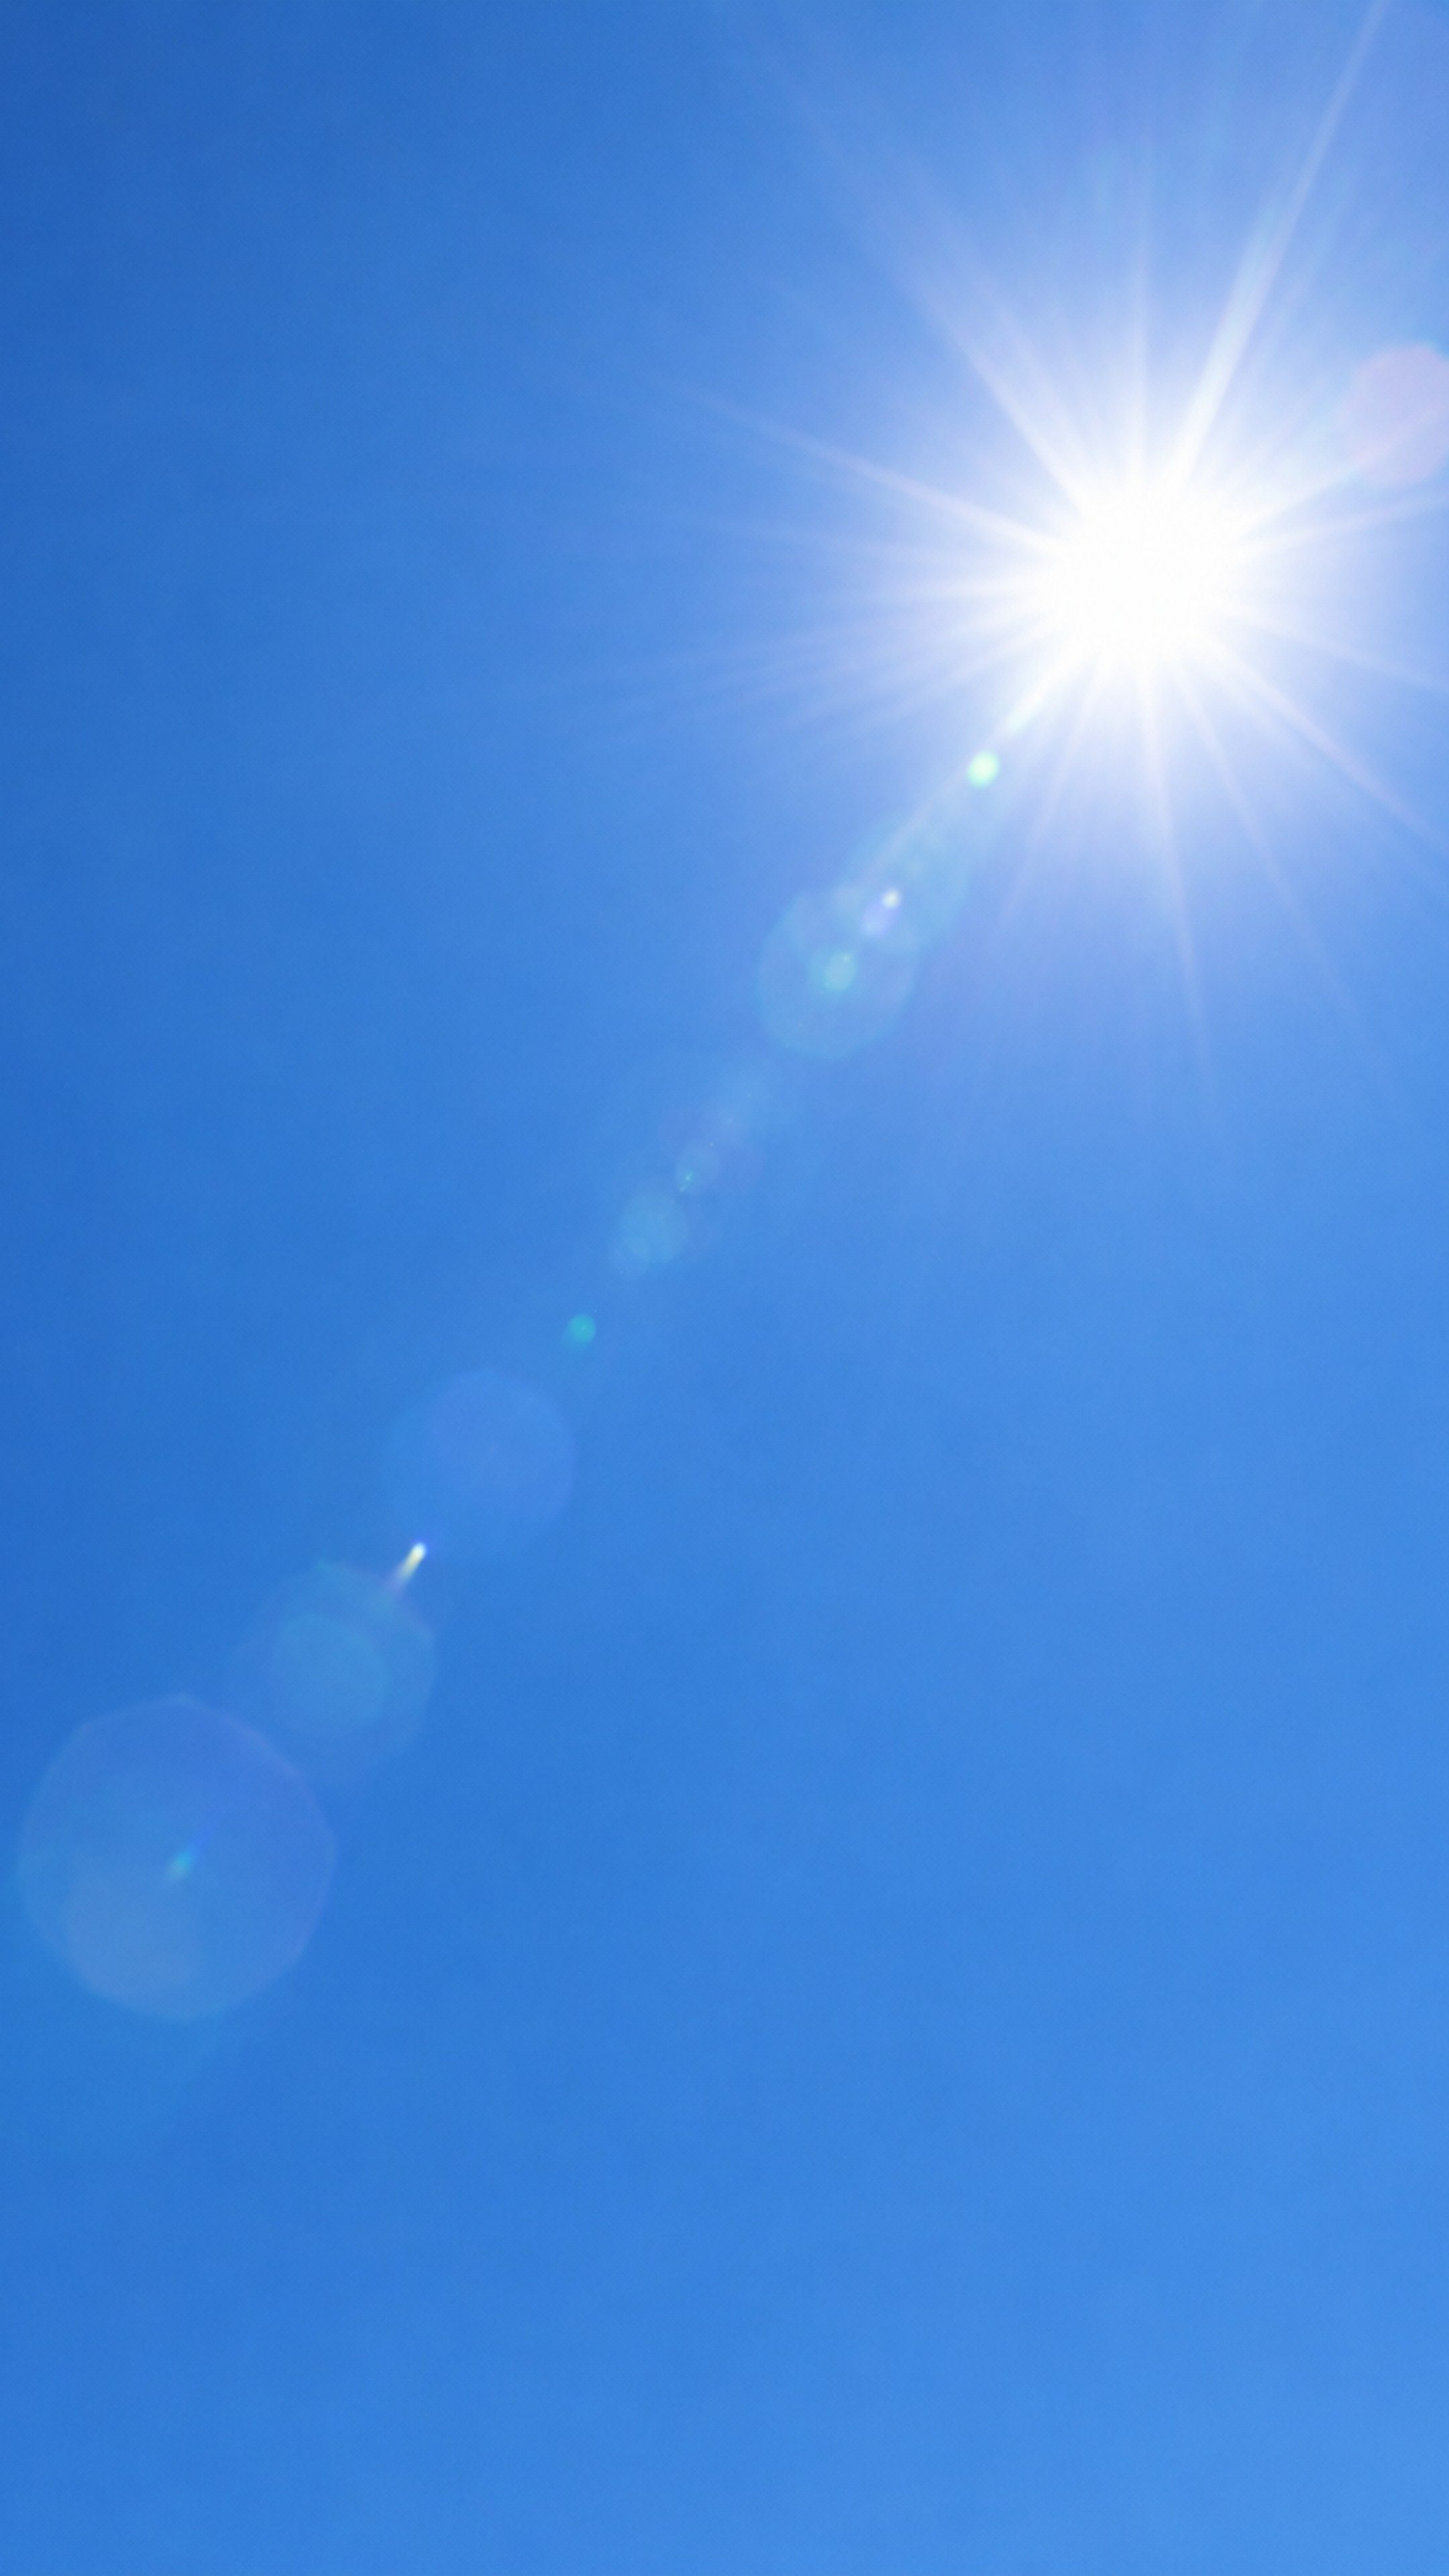
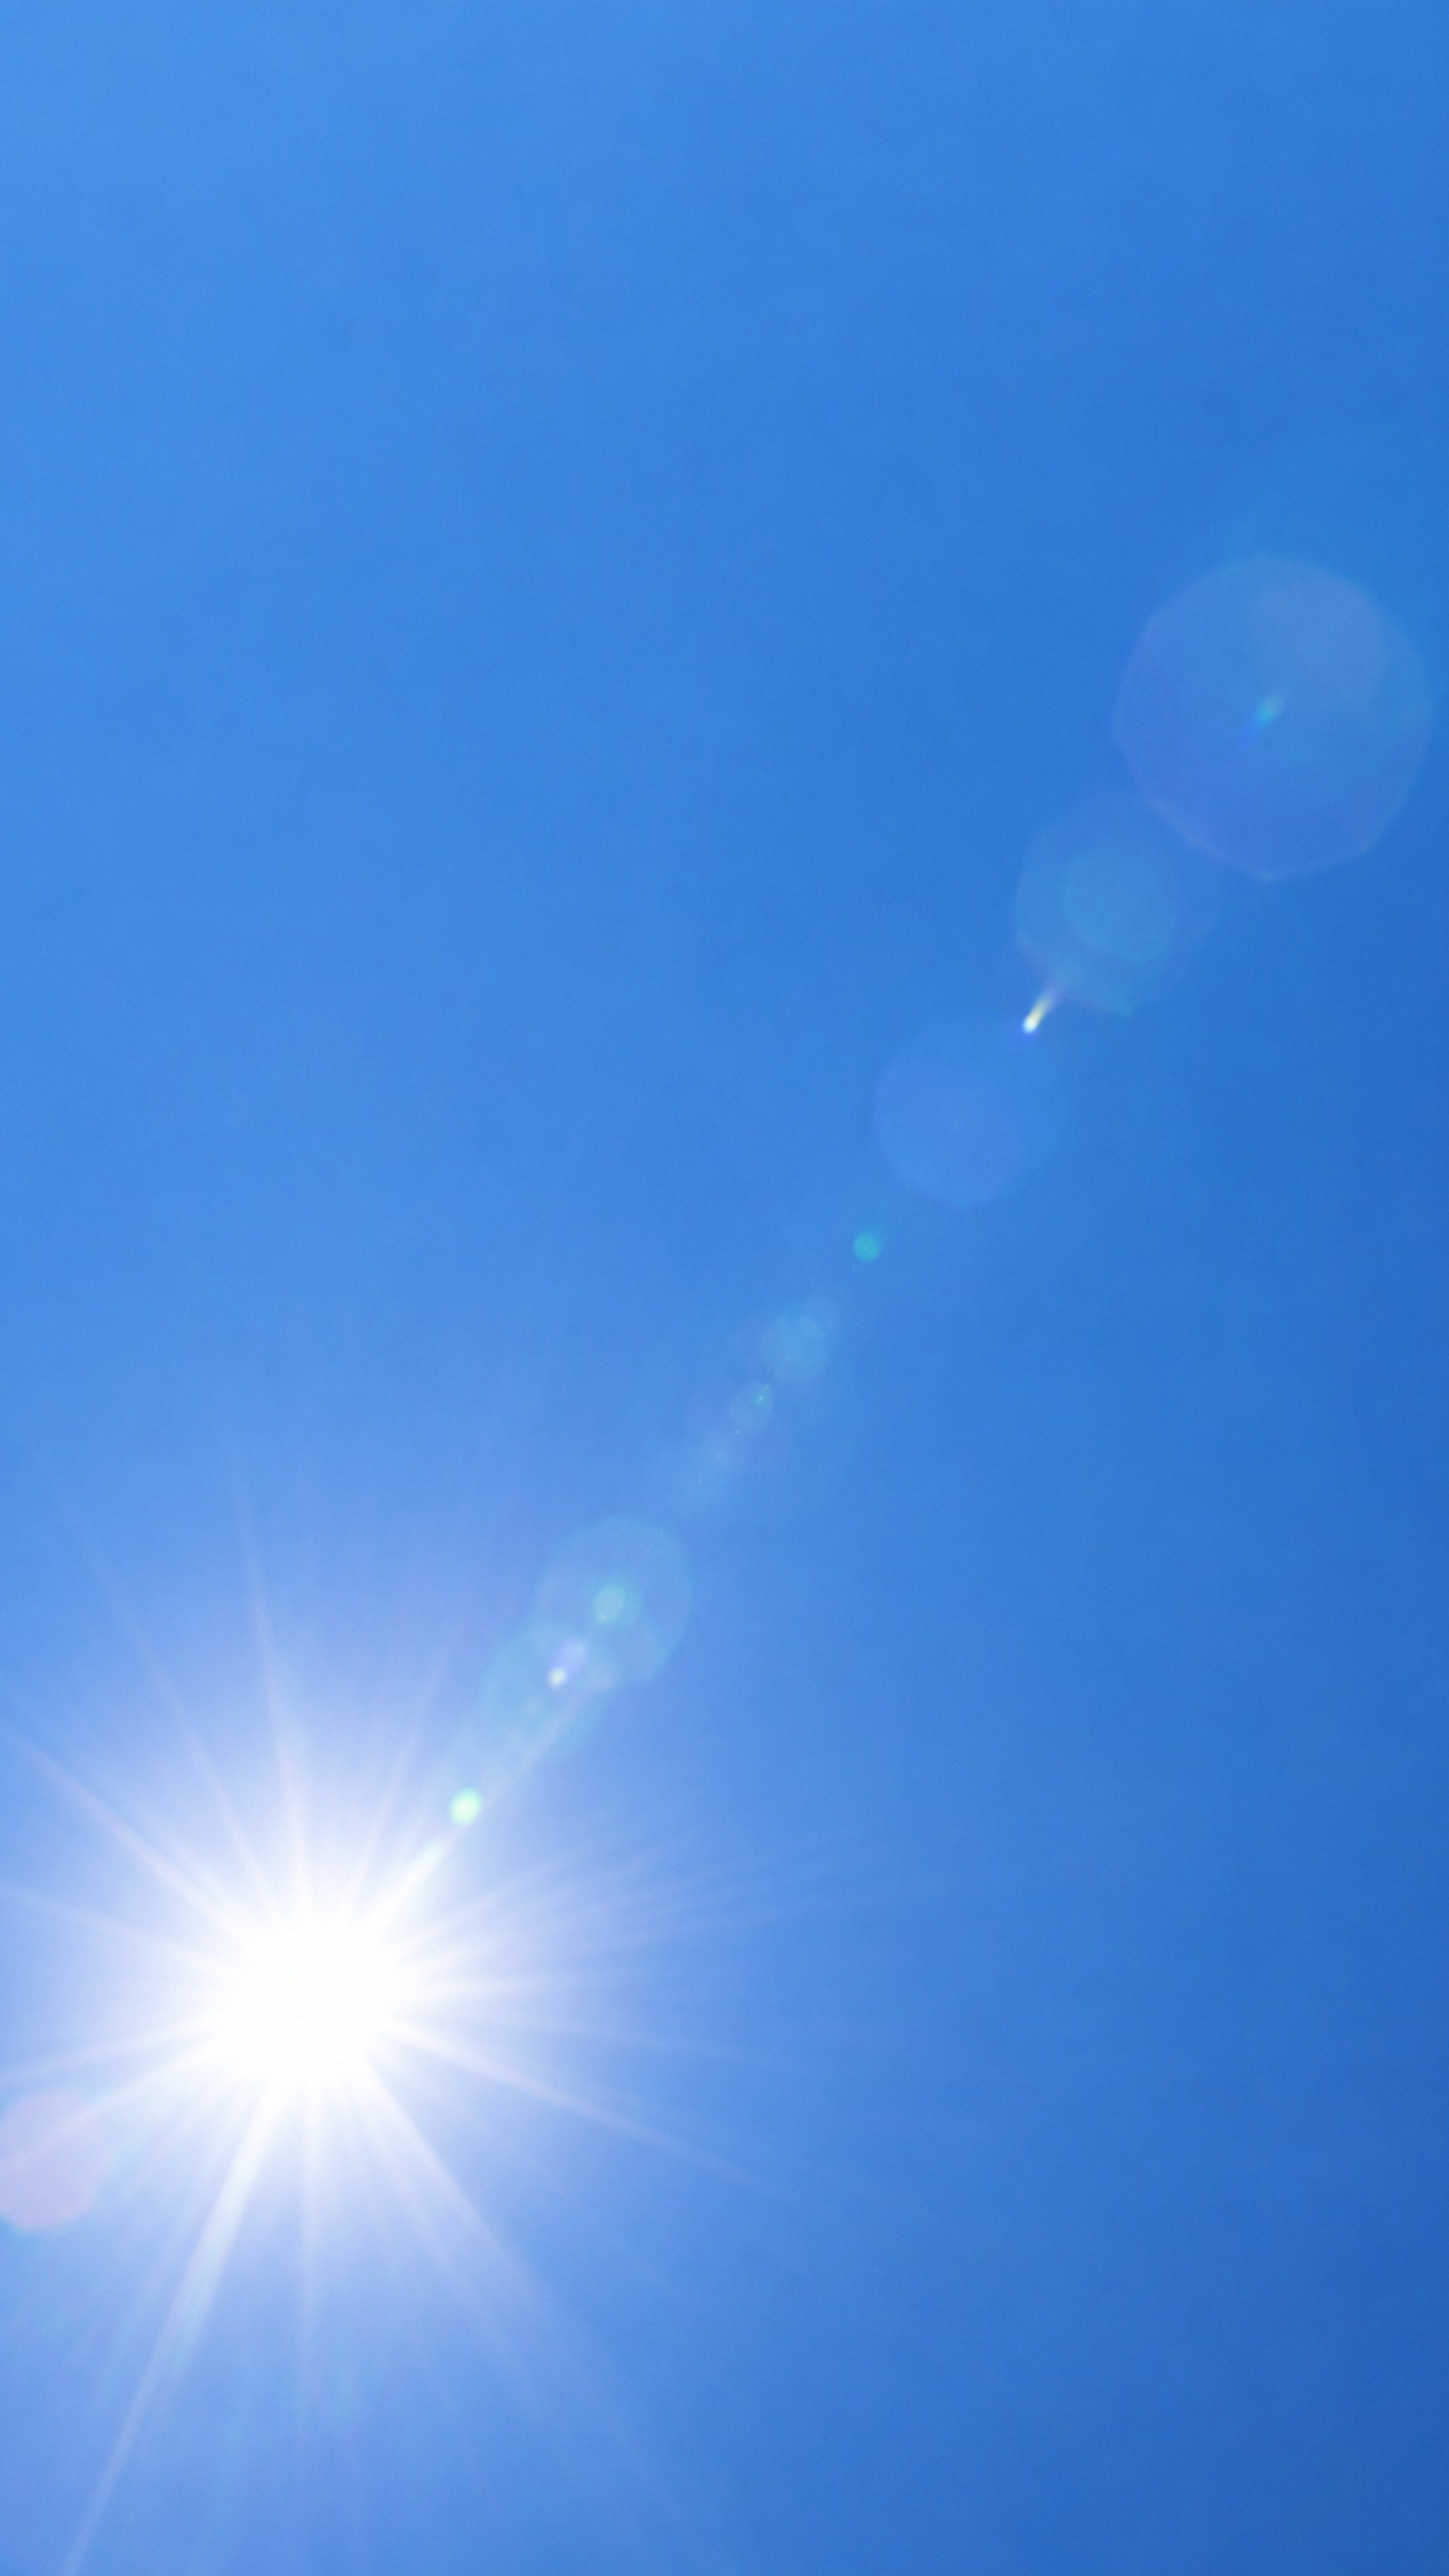
Kitchen board: clear sky turned upside down, sun low left
Claude-Session: https://claude.ai/code/session_0197ewpwxAhUAUG7xaNo6b2x

diff --git a/house/house/server.py b/house/house/server.py
@@ -20,7 +20,7 @@ from board import Board
 log = logging.getLogger("house")
 WWW = Path(__file__).parent / "www"
 HA = "http://supervisor/core/api"
-VERSION = "0.11.2"
+VERSION = "0.11.3"
 
 
 def load_options(path: str = "/data/options.json") -> dict:
